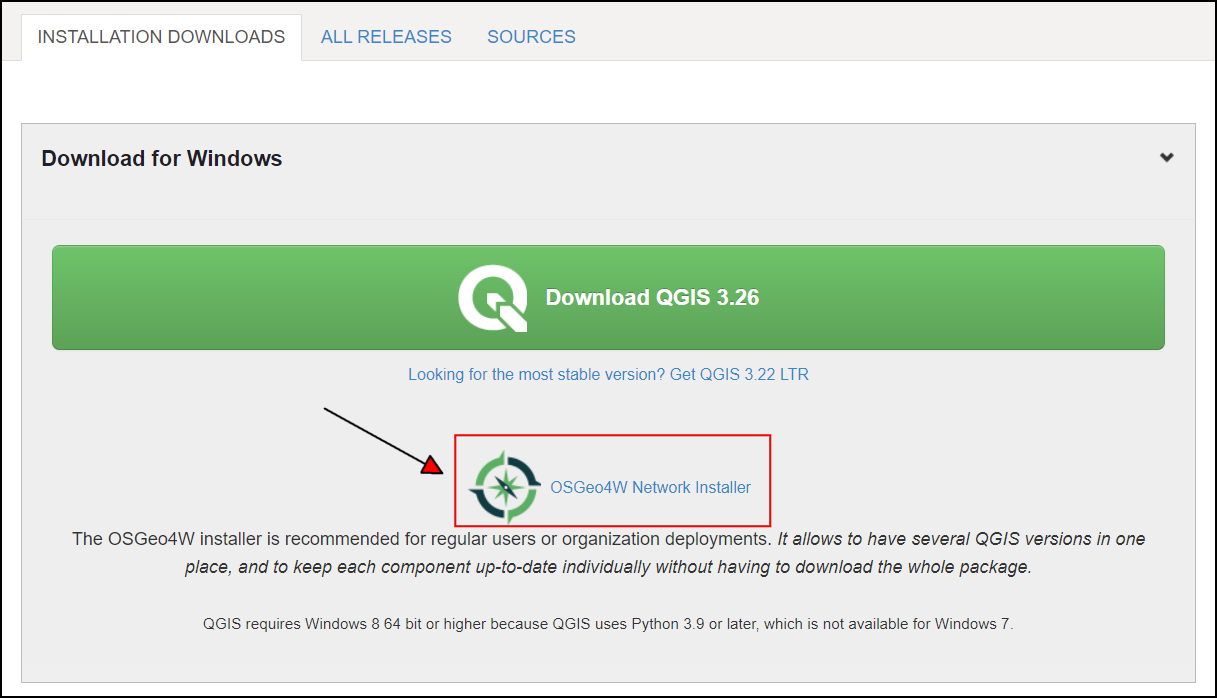
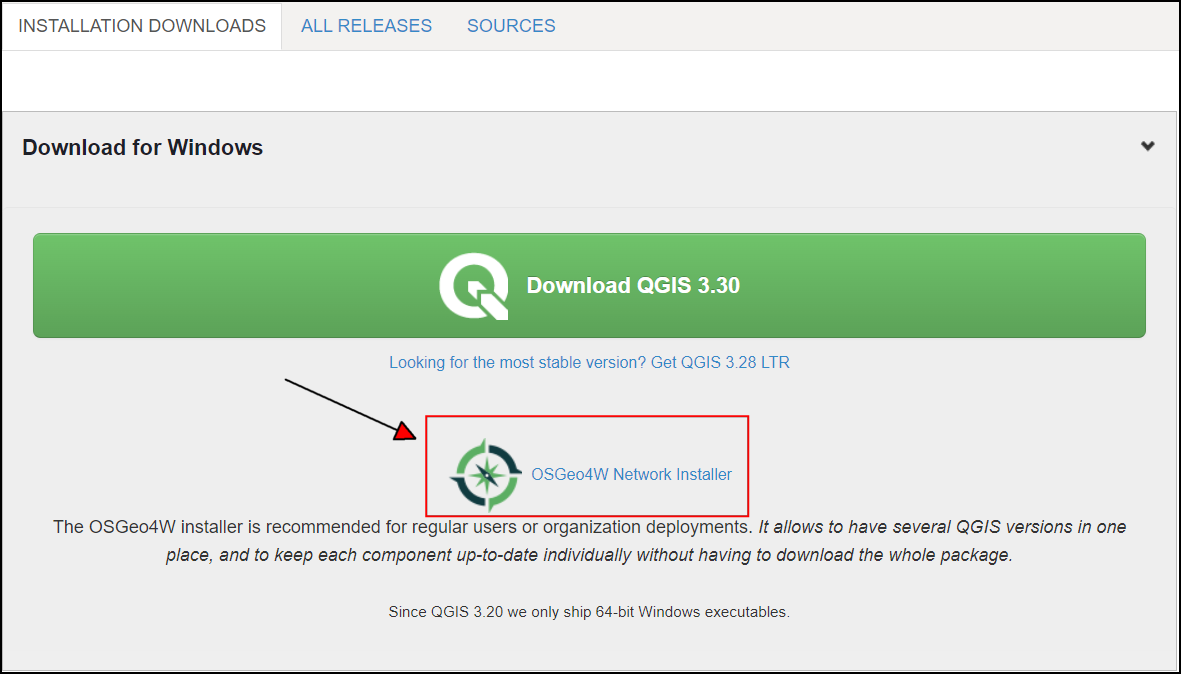
update

diff --git a/docs/install-qgis-ltr.html b/docs/install-qgis-ltr.html
@@ -298,10 +298,10 @@ $(document).ready(function () {
 </ol>
 <p><img src="images/common/winInstall06.png" width="50%" style="display: block; margin: auto;" /></p>
 <ol start="7" style="list-style-type: decimal">
-<li>Once the download gets completed, search for <strong>QGIS</strong> in the Windows Start Menu and choose the <em>QGIS Desktop 3.22</em>, click <em>Open</em>.</li>
+<li>Once the download gets completed, search for <strong>QGIS</strong> in the Windows Start Menu and choose the <em>QGIS Desktop 3.28</em>, click <em>Open</em>.</li>
 </ol>
 <blockquote>
-<p>You may have a slightly different minor version than shown here. As long as the version number starts with 3.22, it should be fine.</p>
+<p>You may have a slightly different minor version than shown here. As long as the version number starts with 3.28, it should be fine.</p>
 </blockquote>
 <p><img src="images/common/winInstall07.png" width="75%" style="display: block; margin: auto;" /></p>
 </div>
@@ -376,7 +376,7 @@ Signed-By: /etc/apt/keyrings/qgis-archive-keyring.gpg</code></pre>
 </ol>
 <p><img src="images/common/ubuntu7.png" width="75%" style="display: block; margin: auto;" /></p>
 <ol start="8" style="list-style-type: decimal">
-<li>You now have QGIS-LTR version 3.22 running on your Ubuntu system.</li>
+<li>You now have QGIS-LTR version 3.28 running on your Ubuntu system.</li>
 </ol>
 <p><img src="images/common/ubuntu8.png" width="75%" style="display: block; margin: auto;" /></p>
 </div>
